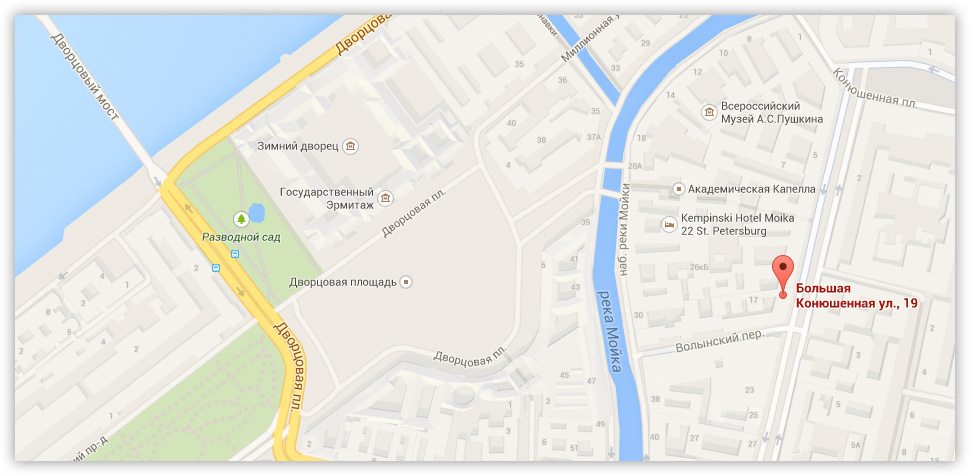
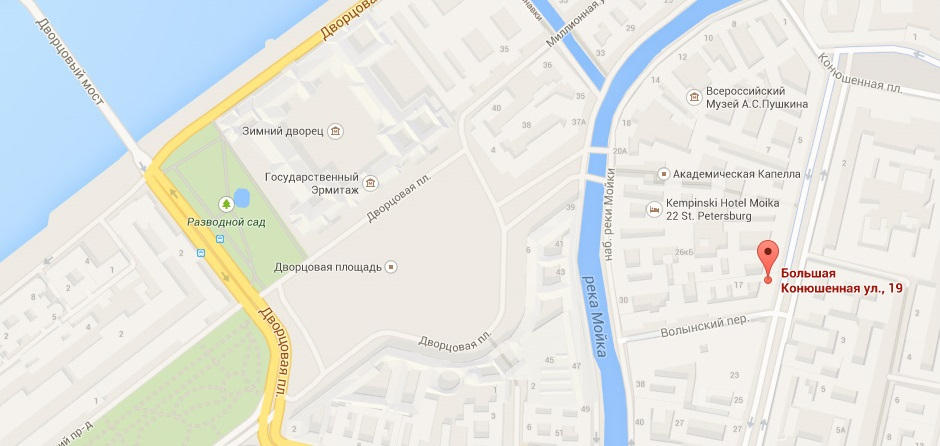
1

diff --git a/css/style.css b/css/style.css
@@ -63,6 +63,14 @@ latin PT Sans Bold*/
   src: local("PT Sans Bold"), local("PTSans-Bold"), url(https://fonts.gstatic.com/s/ptsans/v11/jizfRExUiTo99u79B_mh0OqtLQ0Z.woff2) format("woff2");
   unicode-range: U+0400-045F, U+0490-0491, U+04B0-04B1, U+2116;
 }
+@font-face { /*latin PT Sans Regular */
+  font-family: 'PT Sans';
+  font-style: normal;
+  font-weight: 400;
+  font-display: swap;
+  src: local('PT Sans'), local('PTSans-Regular'), url(https://fonts.gstatic.com/s/ptsans/v11/jizaRExUiTo99u79D0KExQ.woff2) format('woff2');
+  unicode-range: U+0000-00FF, U+0131, U+0152-0153, U+02BB-02BC, U+02C6, U+02DA, U+02DC, U+2000-206F, U+2074, U+20AC, U+2122, U+2191, U+2193, U+2212, U+2215, U+FEFF, U+FFFD;
+}
 @font-face { /*latin PT Sans Bold */
   font-family: "PT Sans";
   font-style: normal;
@@ -215,7 +223,10 @@ body {
 }
 
 .info-bin {
-  width: 49px;
+  display: block;
+  box-sizing: border-box;
+  width: 80px;
+  padding-left: 22px;
   text-align: right;
 }
 .top-header a:last-child {
@@ -237,7 +248,12 @@ body {
   background-color: #518533;
   color: #b9bec4;
 }
-
+.info-mark {
+  display: block;
+  box-sizing: border-box;
+  width: 80px;
+  padding-left: 18px;
+}
 .info-mark::before {
   content: "";
   top: 13px;
@@ -276,6 +292,10 @@ body {
 .info-bin:active::before {
   opacity: 0.5;
 }
+.info-buy-active {
+  background-color: #ee3643;
+}
+
 
 .bottom-header-wrapper {
   display: flex;
@@ -577,7 +597,6 @@ body {
 }
 .promo {
   margin-top: 14px;
-  margin-left: 2px;
   width: 135px;
 
 }
@@ -832,8 +851,8 @@ body {
   content: "";
 
   position: absolute;
-  top:0px;
-  right: 0px;
+  top:-1px;
+  right: -1px;
   width: 60px;
   height: 59px;
 
@@ -864,7 +883,8 @@ body {
   line-height: 18px;
 }
 .list-item h3 {
-  margin: 12px 0 0 -7px;
+  width: 180px;
+  margin: 12px 0 0 -10px;
   line-height: 10px;
 }
 .last-price {
@@ -1314,10 +1334,26 @@ button.popap-close {
   height: 21px;
 
   border: none;
-  background-color: #ffffff;
+  /* background-color: rgba(255, 255, 255 0.1); */
   background-image: url(../img/form-2.svg);
   background-repeat: no-repeat;
+
+  cursor: pointer;
 }
+/* .popap-close::before {
+  position: absolute;
+  top: 8px;
+  right: 9px;
+  width: 21px;
+  height: 21px;
+
+  border: none;
+  background-color: rgba(255, 255, 255 0.1);
+  background-image: url(../img/form-2.svg);
+  background-repeat: no-repeat;
+
+  cursor: pointer;
+} */
 .popap-feedback input::-webkit-input-placeholder {
   color: #a9a9a9;
 }
@@ -1326,6 +1362,19 @@ button.popap-close {
   width: 460px;
 
   border: none;
+}
+
+.full-map {
+  position: fixed;
+  top: 50%;
+  left: 50%;
+  margin-top: -223px;
+  margin-left: -470px;
+
+  width: 940px;
+  height: 446px;
+
+  box-shadow: 0 0 20px -5px #000000;
 }
 
 .popap-bin {
@@ -1600,7 +1649,7 @@ button.popap-close {
   justify-content: space-between;
   margin-top: 0px;
   padding-top: 4px;
-  min-height: 258px;
+  min-height: 260px;
 
   border-top: 1px solid #e5e5e5;
   border-bottom: 1px solid #e5e5e5;
@@ -1617,7 +1666,8 @@ button.popap-close {
   list-style: none;
 }
 .developer-list li {
-  position:relative;
+  position: relative;
+  /* letter-spacing: -0.15em; */
 }
 .developer-list input,
 .energy-list input {
@@ -1665,8 +1715,8 @@ button.popap-close {
 .energy-list {
   display: flex;
   flex-direction: column;
-  min-height: 199px;
-  margin-top: 4px;
+  min-height: 200px;
+  margin-top: 3px;
 }
 .energy-list ul {
   display: flex;
@@ -1737,7 +1787,7 @@ button.popap-close {
   border-color: #ee3643;
 }
 .energy-list input[type="submit"] {
-  width: 138px;
+  width: 140px;
 }
 
 .tools-list {
@@ -1759,7 +1809,7 @@ button.popap-close {
 
   background-color: #f7f3ec;
 }
-.range-filter h3, .range-list a {
+.range-filter h3, .range-filter a {
   margin: 0;
   padding: 0;
 
@@ -1772,42 +1822,41 @@ button.popap-close {
 
   background-color: #f7f3ec;
 }
-.range-list {
-  display: flex;
-  justify-content: flex-end;
-  width: 600px;
+.range-filter h3 {
+  flex-grow: 1;
 }
-
+.range-filter > a {
+  margin: 0 34px;
+}
 .range-item {
   display: flex;
   justify-content: space-between;
-  margin-right: 32px;
-  width: 44px;
+  margin-right: 17px;
+  margin-left: 12px;
+  width: 43px;
 }
-.range-item a {
-  padding-left: 11px;
-  font-size: 36px;
-}
-.range-list > a {
-  margin-left: 36px;
-  margin-right: 30px;
-}
-.range-list a {
+.range-filter a {
   color: #cacaca;
   text-decoration: underline;
   text-decoration-style: dotted;
   text-decoration-color: #ee3643;
 }
-.range-list a:hover {
+.range-filter a:hover {
   color: #000000;
   text-decoration: underline;
   text-decoration-color: #ee3643;
 }
+.range-item polyline:hover,
+.range-item path:hover {
+  fill: #000000;
+}
 .range-item a, .range-item a:hover {
   text-decoration: none;
 }
-a.range-item-active {
+a.range-item-active,
+.range-item-active path {
   color: #ee3643;
+  fill: #ee3643;
   text-decoration: none;
 }
 
@@ -1878,7 +1927,7 @@ a.range-item-active {
 }
 .page-info p {
   margin: 0;
-  /* letter-spacing: 0.008em; */
+  letter-spacing: 0.008em;
 }
 
 

diff --git a/catalog.html b/catalog.html
@@ -10,7 +10,7 @@
     <header class="main-header">
       <div class="top-header-wrapper">
         <div class="top-header container">
-          <a class="logo">Техномарт</a>
+          <a class="logo" href="index.html">Техномарт</a>
           <form class="post" method="post">
             <label class="search" for="search">
               <input class="search" id="search" type="text" name="search" placeholder="Поиск">
@@ -23,8 +23,8 @@
             </label>
           </form>
           <div class="info-buy">
-            <a class="info-mark" href="">Закладки:<span>0</span></a>
-            <a class="info-bin" href="">Корзина:<span>0</span></a>
+            <a class="info-mark" href="">Закладки:&nbsp;<span>0</span></a>
+            <a class="info-bin info-buy-active" href="">Корзина:&nbsp;<span>10</span></a>
             <a href="">Оформить заказ</a>
           </div>
         </div>
@@ -88,7 +88,7 @@
               </div>
             </fieldset>
             <div class="developer-list">
-              <h3>Производители</h3>
+              <h3>Производители:</h3>
               <ul>
                 <li><input class="developer-item" id="bosch" type="checkbox" name="bosch" checked><label for="bosch">bosch</label></li>
                 <li><input class="developer-item" id="interskol" type="checkbox" name="interskol"><label for="interskol">интерскол</label></li>
@@ -110,15 +110,21 @@
         <section class="tools-list">
           <h2 class="visually-hidden">Карточки товаров</h2>
           <div class="range-filter">
-            <h3>Сортировка</h3>
-            <div class="range-list">
+              <h3>Сортировка:</h3>
               <a class="range-item-active" href="">По цене</a>
               <a href="">По типу</a>
               <a href="">По функционалу</a>
               <div class="range-item">
-                <a href="" aria-label="Сортиовка по возрастанию">&utrif;</a>
-                <a href="" aria-label="Сортиовка по убыванию">&dtrif;</a>
-              </div>
+                <a class="range-item-active" href="" aria-label="Сортиовка по возрастанию">
+                  <svg xmlns="http://www.w3.org/2000/svg" width="11" height="10" viewBox="0 0 11 10">
+                    <path fill="#cacaca" d="M5.5 0L0 10h11z"/>
+                  </svg>
+                </a>
+                <a href="" aria-label="Сортиовка по убыванию">
+                  <svg version="1.1" xmlns="http://www.w3.org/2000/svg" xmlns:xlink="http://www.w3.org/1999/xlink" x="0px" y="0px"	width="11px" height="10px" viewBox="0 0 11 10" enable-background="new 0 0 11 10" xml:space="preserve">
+                    <polyline fill="#cacaca" points="5.5,10 0,0 11,0 "/>
+                  </svg>
+                </a>
             </div>
           </div>
           <ul class="catalog-list">
@@ -142,7 +148,7 @@
                 <a class="button mark" href="">В закладки</a>
               </div>
             </li>
-            <li class="list-item">
+            <li class="list-item list-item-new">
               <h3><a href="">Перфоратор BOSCH BFG 2000</a></h3>
               <img src="img/perforator_3k2k.jpg" alt="Перфоратор BOSCH BFG 2000" width="218" height="170">
               <span class="last-price"></span>
@@ -162,7 +168,7 @@
                 <a class="button mark" href="">В закладки</a>
               </div>
             </li>
-            <li class="list-item">
+            <li class="list-item list-item-new">
               <h3><a href="">Перфоратор BOSCH BFG 6000</a></h3>
               <img src="img/perforator_6k.jpg" alt="Перфоратор BOSCH BFG 6000" width="218" height="170">
               <span class="last-price">30500 Р.</span>
@@ -182,7 +188,7 @@
                 <a class="button mark" href="">В закладки</a>
               </div>
             </li>
-            <li class="list-item">
+            <li class="list-item list-item-new">
               <h3><a href="">Перфоратор BOSCH BFG 3000</a></h3>
               <img src="img/perforator_3k2k.jpg" alt="Перфоратор BOSCH BFG 3000" width="218" height="170">
               <span class="last-price">22500 Р.</span>
@@ -249,7 +255,7 @@
       <div class="pre-end-wrapper">
         <div class="pre-end container">
           <div class="bottom-contacts">
-            <a class="logo">Техномарт</a>
+            <a class="logo" href="index.html">Техномарт</a>
             <p>г. Санкт-Петербург, ул. Б. Конюшенная, д. 19/8
               +7 (812) 555-05-55</p>
           </div>

diff --git a/index.html b/index.html
@@ -23,8 +23,8 @@
             </label>
           </form>
           <div class="info-buy">
-            <a class="info-mark" href="">Закладки:<span>0</span></a>
-            <a class="info-bin" href="">Корзина:<span>0</span></a>
+            <a class="info-mark" href="">Закладки:&nbsp;<span>0</span></a>
+            <a class="info-bin" href="">Корзина:&nbsp;<span>0</span></a>
             <a href="">Оформить заказ</a>
           </div>
         </div>
@@ -59,7 +59,7 @@
       <section class="promo-nav container">
         <h2 class="visually-hidden">Каталог и акции</h2>
         <div>
-          <div class="label materials">
+          <div class="label materials list-item-new">
             <h3>Материалы</h3>
             <a class="button promo" href="">На любой вкус</a>
           </div>
@@ -228,8 +228,9 @@
           <p>Вы можете забрать товар сами, заехав в наш офис:</p>
           <a href=""><img src="img/mini-map.jpg" alt="Мини-карта"></a>
           <a class="button" href="">Заблудились? Напишите нам!</a>
-          <a class="visually-hidden"> <!-- Всплывающая карта -->
-            <img src="img/map.jpg" alt="Карта">
+          <a class="full-map"> <!-- Всплывающая карта -->
+            <button class="popap-close"><span class="visually-hidden">Закрыть</span></button>
+            <img src="img/map.jpg" alt="Карта" width="940" height="446">
           </a>
         </section>
         <div class="popap-feedback visually-hidden">
